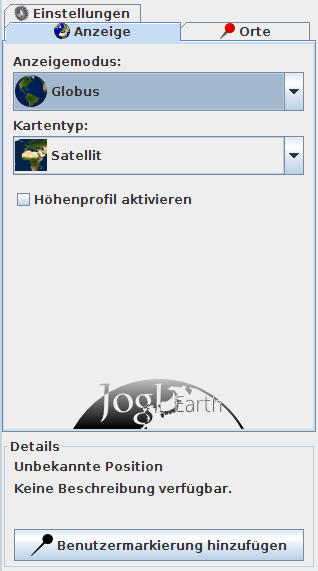
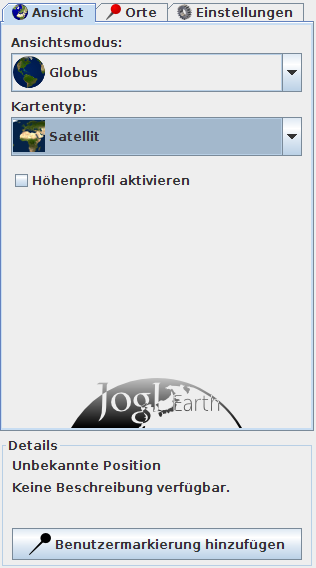
NumPad0 Key ergänzt; Handbuch weitergeschrieben + Bilder geändert

Changed region(s): [[0.0, 0.0, 0.9968, 1.0]]

diff --git a/Handbuch/Handbuch.tex b/Handbuch/Handbuch.tex
@@ -328,7 +328,7 @@ Die gesamte Menüführung befindet sich in der linken \textbf{Seitenleiste} und 
 
 \vspace{3mm}
 \begin{tabular}{>{\centering \arraybackslash}m{1cm} m{14cm}} \index{Menüführung!Menü Details} \index{Menü Details}
-\includegraphics[scale=0.5]{images/info.eps} & Das Bereich \textbf{Details} in den angeführten Menüs verändert sich beim Wechseln der Menüs nicht.
+\includegraphics[scale=0.5]{images/info.eps} & Der Bereich \textbf{Details} in den angeführten Menüs verändert sich beim Wechseln der Menüs nicht.
 \end{tabular}
 
 \vspace{3mm}
@@ -341,11 +341,11 @@ Die gesamte Menüführung befindet sich in der linken \textbf{Seitenleiste} und 
 \includegraphics[scale=0.5]{images/quest.eps} & Blenden Sie die \textbf{Seitenleiste} aus und anschließend wieder ein.
 \end{tabular}
 
-\vspace{5mm}
-\subsubsection{1. Menü: Anzeige} \index{Menü Anzeige} \index{Menüführung!Menü Anzeige}
 
+\vspace{10mm}
 \begin{minipage}[t]{9cm}
 \vspace{-40mm}
+\subsubsection{1. Menü: Ansicht} \index{Menü Ansicht} \index{Menüführung!Menü Ansicht}
 	\begin{itemize}
 	\item Ändern der \textref{Ansichtsmodi} \index{Ansichtsmodi}
 	\item Ändern der \textref{Kartentypen} \index{Kartentypen}
@@ -359,10 +359,10 @@ Die gesamte Menüführung befindet sich in der linken \textbf{Seitenleiste} und 
 
 
 
-\vspace{3mm}
-\subsubsection{2. Menü: Orte} \index{Menü Orte} \index{Menüführung!Menü Orte}
+\vspace{10mm}
 \begin{minipage}[t]{9cm}
 \vspace{-40mm}
+\subsubsection{2. Menü: Orte} \index{Menü Orte} \index{Menüführung!Menü Orte}
 	\begin{itemize}
 	\item \textref{Suche} nach gewünschten Orten \index{Suche}
 	\item Anzeige der Suchergebnisse
@@ -378,11 +378,10 @@ Die gesamte Menüführung befindet sich in der linken \textbf{Seitenleiste} und 
 
 
 
-\vspace{3mm}
-\subsubsection{3. Menü: Einstellungen} \index{Menü Einstellungen} \index{Menüführung!Menü Einstellungen}
-
+\newpage
 \begin{minipage}[t]{9cm}
 \vspace{-40mm}
+\subsubsection{3. Menü: Einstellungen} \index{Menü Einstellungen} \index{Menüführung!Menü Einstellungen}
 	\begin{itemize}
 	\item Ändern der \textref{Sprache} \index{Sprache} \index{Benutzeroberfläche!Sprache}
 	\item Ändern von \textref{Grafikeinstellungen} \index{Grafikeinstellungen}
@@ -397,20 +396,23 @@ Die gesamte Menüführung befindet sich in der linken \textbf{Seitenleiste} und 
 \end{minipage}
 
 
-
-\newpage
-\vspace{3mm}
+\vspace{5mm}
 \subsubsection{4. Menü: Details} \index{Menü Details} \index{Benutzermarkierungen} \index{Menüführung!Menü Details}
+
+\begin{itemize}
+\item Erstellen von \textref{Benutzermarkierungen}
+\end{itemize}
+
 
 \vspace{3mm}
 \begin{tabular}{>{\centering \arraybackslash}m{1cm} m{14cm}} \index{Menüführung!Menü Details} \index{Menü Details}
-\includegraphics[scale=0.5]{images/info.eps} & Das Bereich \textbf{Details} in den angeführten Menüs verändert sich beim Wechseln der Menüs nicht.
+\includegraphics[scale=0.5]{images/info.eps} & Der Bereich \textbf{Details} in den angeführten Menüs verändert sich beim Wechseln der Menüs nicht.
 \end{tabular}
 
-\vspace{3mm}
+\vspace{5mm}
 \begin{minipage}[t]{9cm}
-\vspace{-8mm}
-Der Bereich \textbf{Details} zeigt verfügbare Informationen genau zum Mittelpunkt des aktuellen Kartenausschnitts an. Ebenso findet sich hier die Schaltfläche um \textref{Benutzermarkierungen} zu setzen und wieder zu entfernen. \\
+\vspace{-10mm}
+Der Bereich \textbf{Details} zeigt verfügbare Informationen genau zum Mittelpunkt des aktuellen Kartenausschnitts an. Der Mittelpunkt ist mit einem Rautensymbol gekennzeichnet. Ebenso findet sich hier die Schaltfläche um \textref{Benutzermarkierungen} zu setzen und wieder zu entfernen. \\
 \end{minipage}
 \begin{minipage}{7cm}
 \centering
@@ -488,10 +490,10 @@ Bei erstmaligem Starten von \JoglEarth sind standardmäßig folgende Einstellung
 	\item Textur Filter: Nächster Nachbar
 	\item Detailgrad: niedrig
 	\end{itemize}
-\item Cachegrößen:
+\item Cachegrößen [MB]:
 	\begin{itemize}
-	\item Arbeitsspeicher: 200 MB
-	\item Dateisystem: 1.024 MB
+	\item Arbeitsspeicher: 200
+	\item Dateisystem: 1.000
 	\end{itemize}
 \end{itemize}
 
@@ -733,27 +735,46 @@ Das Zoomlevel kann am rechten Rand der \textref{Benutzeroberfläche} über einen
 \vspace{3mm}
 \section{Ändern von Längen- und Breitengraden}
 \index{Längengrad!Ändern von Längen- und Breitengraden} \index{Breitengrad!Ändern von Längen- und Breitengraden}
+
 In der \textbf{Statusleiste} (\textref{Benutzeroberfläche}) können gewünschte Längen- und Breitengrade eingegeben werden. Anschließend werden die dafür benötigten Karten geladen und der eingegebene Punkt wird im \textbf{Ansichtsfenster} (\textref{Benutzeroberfläche}) zentriert.
 
 
 
 \vspace{3mm}
 \section{Benutzermarkierungen} \index{Benutzermarkierungen}
-Das Feld der Benutzermarkierungen befindet sich im \textref{Menü Orte}. Die Schaltfläche um Benutzermarkierungen zu setzen und wieder zu entfernen findet sich im \textref{Menü Details}.
+Die Schaltfläche um Benutzermarkierungen zu setzen und wieder zu entfernen befindet sich im \textref{Menü Details}. Die gespeicherten Benutzermarkierungen werden im \textref{Menü Orte} gelistet.
 
 
-\vspace{3mm}
-\begin{tabular}{>{\centering \arraybackslash}m{1cm} m{14cm}}
-\includegraphics[scale=0.5]{images/quest.eps} & Markierungen einblenden / ausblenden
-\end{tabular}
+
 
 
 \vspace{3mm}
 \subsection{Markierungen setzen} \index{Benutzermarkierungen!Markierungen setzen} \index{Markierungen setzen}
 
 
+
+\vspace{3mm}
+\begin{tabular}{>{\centering \arraybackslash}m{1cm} m{14cm}}
+\includegraphics[scale=0.5]{images/quest.eps} & Erstellen Sie die Markierung  \underline{\textit{zu Hause}}.
+\end{tabular}
+
+
+
 \vspace{3mm}
 \subsection{Markierungen entfernen} \index{Benutzermarkierungen!Markierungen entfernen} \index{Markierungen entfernen}
+
+\vspace{3mm}
+\begin{tabular}{>{\centering \arraybackslash}m{1cm} m{14cm}}
+\includegraphics[scale=0.5]{images/quest.eps} & Löschen der Markierung \underline{\textit{zu Hause}}.
+\end{tabular}
+
+
+
+\vspace{3mm}
+\begin{tabular}{>{\centering \arraybackslash}m{1cm} m{14cm}}
+\includegraphics[scale=0.5]{images/quest.eps} & Blenden Sie diverse Markierungen ein und anschließend wieder aus.
+\end{tabular}
+
 
 
 
@@ -771,7 +792,7 @@ Das Feld der Benutzermarkierungen befindet sich im \textref{Menü Orte}. Die Sch
 \newpage
 \vspace{3mm}
 \section{Fortschrittsanzeige} \index{Fortschrittsanzeige}
-
+Die Fortschrittsanzeige visualisiert den aktuellen Stand der im Hintergrund geladenen Daten. Hierzu zählen Kartenmaterialien, SRTM-Daten, Suchanfragen usw.
 
 
 
@@ -780,34 +801,47 @@ Das Feld der Benutzermarkierungen befindet sich im \textref{Menü Orte}. Die Sch
 
 \vspace{3mm}
 \subsection{Antialiasing} \index{Grafikeinstellungen!Antialiasing} \index{Antialiasing}
+
+Antialiasing oder Kantenglättung, ist die Verminderung von unerwünschten Effekten, die bei der Erzeugung einer Computergrafik entstehen können.\\
+
+MSAA bedeutet 'multisample anti-aliasing' und ist eine Art Antialiasing zur Verbesserung der Bildqualität.\\
+
+Optionen:
 \begin{itemize}
-\item deaktiviert
-\item 2x MSAA
-\item 4x MSAA
-\item 8x MSAA
-\item 16x MSAA
+\item \textbf{deaktiviert}
+\item \textbf{2x MSAA}
+\item \textbf{4x MSAA}
+\item \textbf{8x MSAA}
+\item \textbf{16x MSAA}
 \end{itemize}
 
 
 \vspace{3mm}
 \subsection{Detaillevel} \index{Grafikeinstellungen!Detaillevel} \index{Detaillevel}
+
+Optionen:
 \begin{itemize}
-\item niedrig
-\item mittel
-\item hoch
+\item \textbf{niedrig}
+\item \textbf{mittel}
+\item \textbf{hoch}
 \end{itemize}
 
 
 \vspace{3mm}
 \subsection{Textur Filter} \index{Grafikeinstellungen!Texturfilter} \index{Texturfilter}
+
+
+'Anisotrope Filterung' ist eine Methode in der Grafikverarbeitung um den Schärfeeindruck bei entfernten Texturen zu erhalten.\\
+
+Optionen:
 \begin{itemize}
-\item Nächster Nachbar
-\item Bilinear
-\item Trilinear
-\item 2x Anisotropisch
-\item 4x Anisotropisch
-\item 8x Anisotropisch
-\item 16x Anisotropisch
+\item \textbf{Nächster Nachbar}
+\item \textbf{Bilinear}
+\item \textbf{Trilinear}
+\item \textbf{2x Anisotropisch}
+\item \textbf{4x Anisotropisch}
+\item \textbf{8x Anisotropisch}
+\item \textbf{16x Anisotropisch}
 \end{itemize}
 
 
@@ -894,12 +928,22 @@ Einstellen der Benutzeroberfläche: \index{Benutzeroberfläche}
 
 \vspace{3mm}
 \section{Suche} \index{Suche}
-Die Suchfunktion wird über Nominatim \index{Nominatim} ausgeführt. Die Suchbegriffe werden von links nach rechts (vom Speziellen zum Allgemeinen) abgearbeitet, wenn dies fehlschlägt werden die Suchbegriffe von rechts nach links nochmals abgearbeitet.\\
+Die Suchfunktion wird über Nominatim \index{Nominatim} ausgeführt. Es kann sowohl nach Orten, Städten und Ländern, als auch nach POIs oder anderen gewünschten Punkten gesucht werden.\\
+
+Die Suchbegriffe werden von links nach rechts (vom Speziellen zum Allgemeinen) abgearbeitet, wenn dies fehlschlägt werden die Suchbegriffe von rechts nach links nochmals abgearbeitet.\\
 
 \vspace{3mm}
 \begin{tabular}{>{\centering \arraybackslash}m{1cm} m{14cm}}
 \includegraphics[scale=0.5]{images/info.eps} & Bei den Suchanfragen ist ein Limit gesetzt. Daher liefert eine Anfrage maximal ?? Suchergebnisse zurück. \\ 
 \end{tabular} 
+
+\vspace{5mm}
+Optionen:
+\begin{itemize}
+\item \textbf{in der Nähe}: Es werden nur Suchergebnisse angezeigt, welche sich im aktuell sichtbaren Kartenausschnitt befinden.
+\item \textbf{Weltweit}: Es werden auch Suchergebnisse angezeigt, welche außerhalb des Kartenausschnitts liegen.
+\end{itemize}
+
 
 \vspace{3mm}
 \begin{tabular}{>{\centering \arraybackslash}m{1cm} m{14cm}}
@@ -924,12 +968,16 @@ Beispiel:
 \item \textit{Brandenburger Tor Berlin}
 \end{itemize}
 
-Die Suchergebnisse werden im \textref{Menü Orte} angezeigt.
 
 \vspace{3mm}
 \begin{tabular}{>{\centering \arraybackslash}m{1cm} m{14cm}}
 \includegraphics[scale=0.5]{images/quest.eps} & Suchen Sie den Ort \underline{\textit{Passau}} in Deutschland.
 \end{tabular}
+
+% Screenshot der angezeigten Suchergebnisse
+
+\vspace{3mm}
+Die Suchergebnisse werden im \textref{Menü Orte} angezeigt.
 
 
 
@@ -984,6 +1032,7 @@ Folgende getätigte Einstellungen werden bei ordnungsgemäßer Programmbeendigun
 	\item Arbeitsspeicher
 	\item Dateisystem
 	\end{itemize}
+\item Benutzermarkierungen
 \end{itemize}
 
 

diff --git a/Spezifikation/src/de/joglearth/ui/MainWindow.java b/Spezifikation/src/de/joglearth/ui/MainWindow.java
@@ -1682,15 +1682,11 @@ public class MainWindow extends JFrame {
                     tiltChanged = true;
                     break;
                 case KeyEvent.VK_0:
+                case KeyEvent.VK_NUMPAD0:
                     cTiltY = 0.0d;
                     cTiltX = 0.0d;
                     tiltChanged = true;
-                    break;                
-                case 96:
-                        cTiltY = 0.0d;
-                        cTiltX = 0.0d;
-                        tiltChanged = true;
-                        break;
+                    break;
                 case KeyEvent.VK_PLUS:
                 case KeyEvent.VK_ADD:
                     SwingUtilities.invokeLater(new Runnable() {
